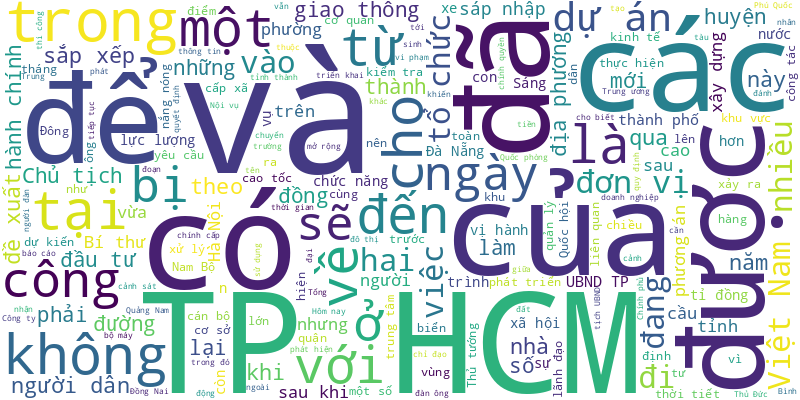
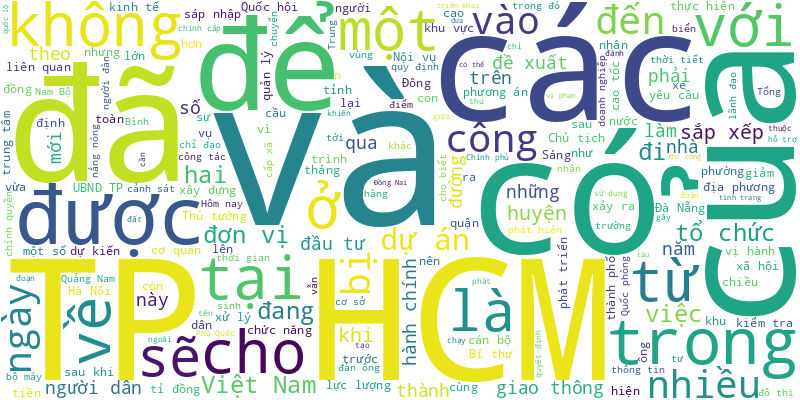
🍀 = 40%

diff --git a/README.md b/README.md
@@ -1,6 +1,17 @@
 # Tuoi Tre RSS 
 
 ## Giáo dục 
+- Hai nhóm học sinh Đắk Lắk giành giải nhì tại Cuộc thi Nghiên cứu khoa học kỹ thuật cấp quốc gia năm học 2024-2025 với hai sáng chế: máy tách vỏ sầu riêng bán tự động và thiết bị theo dõi dinh dưỡng cây cà phê bằng AI.
+- Gloucestershire Vietnam luôn nỗ lực mở rộng và nâng cao chất lượng giáo dục thông qua các chương trình đào tạo quốc tế. Với tinh thần hội nhập và nhu cầu học hỏi của thế hệ Gen Z, Gloucestershire Vietnam đã tạo ra những cơ hội học tập hấp dẫn...
+- Trong thư ngỏ, hiệu trưởng cũng mong phụ huynh hãy đặt hy vọng đúng mực vào con em mình, tránh gây áp lực điểm số mà vô tình tiếp tay cho việc học thêm, dạy thêm sai quy định.
+- UBND TP.HCM đã có văn bản cho phép tuyển sinh lớp 10 chuyên năm học 2025-2026 cao hơn 20% chỉ tiêu ban đầu.
+- Thủ tướng đề nghị các trường đại học của hai bên chủ động trao đổi để có các chương trình hợp tác cụ thể.
+- Một số người nước ngoài chia thành hai luồng ý kiến khác nhau xoay quanh việc có nên giáo dục học sinh bằng hình phạt đòn roi.
+- Ngày 31-3, báo Tuổi Trẻ đã tổ chức giao lưu, chia sẻ và ra mắt sách 'Kỹ năng ứng phó bạo lực học đường' dành cho học sinh tiểu học.
+- Thí sinh đăng ký nguyện vọng xét tuyển, đóng lệ phí và phải xác nhận nhập học trực tuyến khi trúng tuyển.
+- Một phụ huynh dùng điện thoại ghi lại cảnh nhóm nữ sinh tiểu học ở TP Long Xuyên, An Giang ‘phì phèo’ thuốc lá trong sân trường.
+- Bộ Giáo dục và Đào tạo vừa công bố kết quả kỳ thi chọn đội tuyển quốc gia dự thi Olympic quốc tế và khu vực năm 2025.
+- Nhiều câu hỏi 'nóng' về tuyển sinh lớp 10 năm 2025 tại TP.HCM đã được giải đáp tại Ngày hội Tự tin vào lớp 10 diễn ra sáng 30-3.
 - Đó là một trong những nội dung đáng chú ý trong kế hoạch tuyển sinh đầu cấp năm học 2025-2026 vừa được UBND TP.HCM công bố.
 - Buổi giao lưu với các chuyên gia tâm lý, nhà báo về kỹ năng ứng phó bạo lực học đường sẽ diễn ra lúc 7h ngày 31-3 tại Trường tiểu học Trần Hưng Đạo, quận 1, TP.HCM.
 - Ủng hộ quản lý chuyện dạy thêm nhưng nhiều bạn đọc đề nghị cần kiểm soát chặt hơn, tránh giáo viên hoán đổi học sinh ở trung tâm và thu tiền cao.
@@ -993,19 +1004,69 @@ Trường đại học Văn Lang được QS xếp hạng top 51-100 thế giớ
 - Học sinh chưa được hướng nghiệp đầy đủ ở cấp THCS nhưng phải lựa chọn môn học ngay đầu cấp học THPT và chỉ được chọn tổ hợp nhà trường bố trí là bất hợp lý.
 - Hiệp hội các trường đại học, cao đẳng Việt Nam đánh giá hoạt động tuyển sinh vào đại học, cao đẳng ngày càng lộn xộn, kém hiệu quả; tạo ra sự mất bình đẳng về cơ hội được tiếp cận giáo dục đại học đối với các đối tượng bị thiệt thòi trong xã hội.
 - Sinh viên năm nhất ngành quan hệ công chúng đến báo Tuổi Trẻ tìm hiểu, học tập quy trình và cách thức tổ chức sự kiện.
-- Loạt bài "Lạc lối với môn học lựa chọn" vừa đăng trên Tuổi Trẻ đã chạm đến nỗi niềm của phụ huynh đang có con chuẩn bị chuyển cấp học.
-- Sinh viên phản ánh giá gửi xe ở Trường đại học Y khoa Phạm Ngọc Thạch (TP.HCM) còn đắt hơn ở trung tâm thương mại?
-- Nếu cho rằng không có 'phương thức xét tuyển sớm' thì việc bộ đưa ra quy định không xét tuyển sớm quá 20% chỉ tiêu để làm gì?
-- Trường học hạnh phúc muốn có chiều sâu, không dừng lại ở khẩu hiệu thì mỗi thầy cô phải là người anh, người chị, người bạn chân thành của học sinh.
-- Đây là một trong những quy tắc ứng xử văn hóa của học sinh được Trường THCS Trực Thuận, huyện Trực Ninh, Nam Định áp dụng với học sinh toàn trường.
-- Trên sân khấu, các nghệ sĩ diễn trích đoạn 'Anh hùng Trần Bình Trọng', ngồi dưới, học sinh vừa xem vừa ghi chú lại những ấn tượng về nghệ thuật hát bội.
-- UBND huyện Sông Mã (Sơn La) quyết định cho thôi chức vụ hiệu trưởng Trường Phổ thông dân tộc bán trú tiểu học Nậm Ty đối với bà Nguyễn Thị Hà.
-- Nhiều phụ huynh lại thấp thỏm với phương án tuyển sinh lớp 10 năm nay, vì đây là kỳ thi đầu tiên theo chương trình mới và lại có thêm những thay đổi trong phương án thi.
-- Có những phụ huynh dù nhà cách trường không xa nhưng vẫn đi ô tô đưa đón học sinh thay vì đi xe máy để hạn chế kẹt xe.
-- Đội tuyển Hồng Bàng 1 gồm học sinh các trường THPT tại TP.HCM vừa giành giải 3 tại đấu trường STEM Robotics thế giới.
-- Một nhóm học sinh trung học cơ sở tại Mỹ đã tình cờ phát hiện hợp chất mới có khả năng làm chậm sự phát triển của tế bào ung thư hắc tố và ung thư buồng trứng.
 ![Edu](Edu.png)
 ## Thời Sự 
+- 217 hộ dân ảnh hưởng bởi dự án đường Hồ Chí Minh - tuyến tránh Chư Sê đã được cấp kinh phí hỗ trợ sau nhiều năm dài khiếu kiện vì huyện tính thiếu.
+- Nhiều chuyên gia và cán bộ quản lý nhìn nhận số lượng 'khủng' trụ sở các cơ quan, đơn vị hành chính, tổ chức xã hội dôi dư sau sắp xếp sẽ tạo cơ hội để các địa phương bổ sung cơ sở vật chất văn hóa, thể thao, giáo dục cho người dân.
+- Thủ tướng Chính phủ yêu cầu các bộ trưởng, chủ tịch tỉnh cập nhật thông tin những dự án còn vướng mắc, khó khăn để báo cáo cấp thẩm quyền xem xét, giải quyết.
+- Tại dự Luật Cán bộ, công chức, Bộ Nội vụ đã đề xuất thêm một số trường hợp được miễn trách nhiệm đối với cán bộ, công chức.
+- Từ ngày 1-4, mua bán xe online sẽ được công an xác thực qua ứng dụng VNeID, giúp người dân không mất thời gian đi lại.
+- Chiếc xe bồn gặp sự cố dẫn đến mất lái, tông vào bên đường rồi bốc cháy, sáng 1-4. Sự cố làm một người trong cabin tử vong.
+- Theo chỉ thị 19 của Thủ tướng, từ ngày 30-3-2025 các chung cư mini, nhà ở kết hợp kinh doanh, nhà trọ không bảo đảm an toàn phòng cháy chữa cháy sẽ bị buộc phải dừng hoạt động cho đến khi đáp ứng đầy đủ các giải pháp bảo đảm an toàn.
+- Thời gian gần đây khu vực Tây Nguyên rộ lên tình trạng kẻ gian phá hoại những vườn cây trồng chủ lực như cà phê, hồ tiêu, chanh dây, sầu riêng... gây thiệt hại lớn cho người trồng.
+- Trong đó, nhiều chính sách về dự án nhà ở, quy định về quản lý lao động, tiền lương, thù lao, tiền thưởng... được nhiều người quan tâm.
+- Một số tin tức đáng chú ý: Choáng với lượt quan tâm tìm kiếm bất động sản ở Hưng Yên; Một sếp Vinaconex bất ngờ từ nhiệm trước cuộc họp quan trọng; Mỗi tháng Bệnh viện Chợ Rẫy tiếp nhận gần 700 ca kháng thuốc kháng sinh...
+- Bắc Bộ sau nhiều ngày mưa rét hôm nay 1-4, trời đã hửng nắng. Nam Bộ có mưa do ảnh hưởng của rãnh áp thấp tồn tại các nhiễu động xấu.
+- Đoàn tìm kiếm cứu nạn của Bộ Công an Việt Nam vừa tìm thấy thi thể một bé trai 10 tuổi bị vùi dưới đống đổ nát trong ngôi nhà sập ở Myanmar, tối 31-3.
+- Tổng thống Burundi là nguyên thủ quốc gia nước ngoài thứ ba đến Hà Nội trong vòng hai tuần qua, cho thấy sự coi trọng của các nước và vị thế ngày càng cao của Việt Nam.
+- Liên quan vụ ô tô chở 36 du khách đi từ Đà Lạt rơi xuống vực đèo Bảo Lộc (tỉnh Lâm Đồng), tài xế đã bị tạm giữ để phục vụ điều tra.
+- Tại cuộc tiếp Đại sứ Mỹ Marc Knapper, Tổng Bí thư Tô Lâm cho biết Việt Nam đang tích cực giải quyết các quan tâm hiện nay của Mỹ, trên tinh thần khuyến khích gia tăng nhập khẩu các sản phẩm mà nước này có thế mạnh và Việt Nam có nhu cầu.
+- ‘Nổ’ du học nước ngoài về và đang là bác sĩ, Nguyễn Quán Hùng làm quen nhiều cô gái rồi lừa cả tình lẫn tiền của các nạn nhân.
+- Trong 8 năm, cơ quan chức năng phát hiện 110 mỏ khoáng sản, gồm 25 loại khác nhau như đất hiếm, vàng, thiếc-wolfram, đồng.
+- Anh T. chở vợ là chị C. bằng xe máy đi khám bệnh, khi đi đến địa bàn huyện Cái Nước, tỉnh Cà Mau thì va chạm với xe khách. Vụ va chạm làm vợ chồng anh T. tử vong tại chỗ.
+- Cơ quan chức năng nghi ngờ nhà thầu thi công căn nhà 7 tầng tại TP Buôn Ma Thuột (Đắk Lắk) đã đào móng quá sâu và rộng, làm sập căn nhà bên cạnh.
+- Việt Nam không nằm trên vành đai lửa nên không xảy ra động đất mang tính chất hủy diệt, song vẫn có khả năng xảy ra các trận động đất mạnh 6-7 độ (độ lớn M) ở khu vực Tây Bắc, do có nhiều đứt gãy địa chất.
+- Trung tâm Quản lý giao thông công cộng TP.HCM thông báo điều chỉnh lộ trình tuyến xe buýt 99 (chợ Thạnh Mỹ Lợi - Đại học Quốc gia) kết nối vào tuyến metro số 1 (Bến Thành - Suối Tiên).
+- Cháu bé 8 tuổi bị người tình của mẹ đánh, ném xuống sàn nhà gây chấn thương não, nhập viện cấp cứu trong tình trạng hôn mê ở An Giang đã tử vong, gia đình đã đưa thi thể cháu về lo hậu sự.
+- Viện Kiểm sát nhân dân tỉnh Tiền Giang đã phê chuẩn quyết định khởi tố bị can Hồ Vũ Bảo - cựu phó giám đốc Sở Nội vụ, trưởng Ban Thi đua - Khen thưởng trực thuộc Sở Nội vụ tỉnh Tiền Giang - về tội thiếu trách nhiệm gây hậu quả nghiêm trọng.
+- Ông H. có những bình luận trên mạng xã hội Facebook khiếm nhã, phân biệt địa phương, chia rẽ tình cảm giữa nhân dân hai tỉnh Quảng Trị và Quảng Bình.
+- Tỉnh Bạc Liêu thông qua chính sách hỗ trợ lãi vay đầu tư xe buýt và miễn, giảm giá vé cho nhiều đối tượng đi xe buýt để khuyến khích loại hình vận tải công cộng này.
+- Kết thúc thanh tra dự án xây dựng cơ sở 2 Bệnh viện Bạch Mai và Bệnh viện Hữu nghị Việt Đức, Thanh tra Chính phủ phát hiện giá trị lãng phí lên đến hàng ngàn tỉ, chuyển hồ sơ vụ việc có dấu hiệu tội phạm đến Bộ Công an xem xét điều tra, xử lý.
+- Chủ tịch Quốc hội Trần Thanh Mẫn nhấn mạnh, tại kỳ họp thứ 9 sẽ ưu tiên trình Quốc hội xem xét, quyết định các nội dung cấp thiết phục vụ sắp xếp tổ chức bộ máy, tổ chức chính quyền.
+- Căn nhà bốc cháy khiến bé trai tử vong. Khi ngọn lửa bùng phát, cơ quan chức năng cho hay mẹ nạn nhân không có trong nhà.
+- Tổng liên đoàn Lao động Việt Nam sẽ nghiên cứu, đề xuất tăng cường kiểm tra tài chính, kết hợp kiểm toán độc lập tại công đoàn cơ sở ở doanh nghiệp ngoài nhà nước có đông công nhân.
+- Lâm Đồng nằm sâu trong nội địa, Bình Thuận giáp ranh và có 192km bờ biển. Giao thông kết nối hai tỉnh hiện ra sao?
+- Lực lượng cảnh sát giao thông Quảng Nam đã làm việc với chủ xe và 2 người nước ngoài, liên quan đến vụ việc nhóm người buông hai tay khi lái mô tô phân khối lớn trên đường.
+- Bộ Nội vụ đề xuất UBND cấp tỉnh trước sáp nhập lập danh sách, thống nhất dự kiến phương án xử lý trụ sở, tài sản công của cơ quan, tổ chức, đơn vị ở cấp tỉnh thuộc phạm vi quản lý, kèm theo đề án sắp xếp đơn vị cấp tỉnh.
+- Bà Cao Thị Hòa An - phó bí thư thường trực Tỉnh ủy Phú Yên - vừa được Bộ Chính trị chuẩn y là bí thư Tỉnh ủy Phú Yên nhiệm kỳ 2020 - 2025.
+- Thủ tướng đề nghị các trường đại học của hai bên chủ động trao đổi để có các chương trình hợp tác cụ thể.
+- Ông Võ Thanh Hùng, trưởng Ban Nội chính Tỉnh ủy Gia Lai, được tổ chức cho phép nghỉ hưu trước tuổi dù còn 3 năm công tác.
+- Chủ tịch tỉnh Khánh Hòa chỉ đạo các đơn vị liên quan kiểm tra, xử lý vụ người dân "tố" lãnh đạo xã đi dã ngoại xa trong giờ hành chính.
+- Mức phạt dành cho nhóm người chặn đường đánh bóng bàn ở quận Gò Vấp (TP.HCM) còn nhẹ, chưa đủ sức răn đe.
+- Một nam thanh niên ở Nghệ An trúng tuyển nghĩa vụ quân sự nhưng trước lễ giao nhận quân hai ngày lại xuất cảnh sang Hàn Quốc làm việc.
+- UBND TP.HCM vừa ban hành quyết định giao nhiệm vụ chủ đầu tư các dự án metro thực hiện theo nghị quyết 188 của Quốc hội.
+- Sáng 31-3, tàu huấn luyện Suzunami của Lực lượng Tự vệ trên biển Nhật Bản chở theo 230 sĩ quan và thủy thủ đã cập cảng Tiên Sa.
+- Phó tổng tham mưu trưởng Lào trung tướng Vanthong Bouttavong cho biết Việt Nam là nước đầu tiên được quân đội Lào chọn để nghiên cứu xây dựng lực lượng gìn giữ hòa bình Liên hợp quốc.
+- Báo Tuổi Trẻ đã tiếp nhận ủng hộ của nhiều bạn đọc cho người dân Myanmar đang chịu sự mất mát do trận động đất 7,7 độ gây ra.
+- Đường tỉnh 830C nối từ trung tâm huyện Bến Lức (Long An) đến TP.HCM được điều chỉnh tổng mức đầu tư từ 971 tỉ đồng lên 1.851 tỉ đồng.
+- Bất chấp dòng xe cộ đông đúc trên quốc lộ 1, tài xế xe buýt vẫn lái xe chạy ngược chiều, chèn ép xe khác trên đường.
+- Hình ảnh do lực lượng cứu hộ Việt Nam gửi về cho thấy nhiều ngôi nhà tại thủ đô Naypyidaw, Myanmar đã đổ sập, hư hại hoàn toàn.
+- Trưởng Ban Tuyên giáo và Dân vận Trung ương Nguyễn Trọng Nghĩa đề nghị phát huy nguồn lực các tôn giáo cho sự nghiệp phát triển đất nước.
+- Dưới thời tiết nắng gắt của Naypyidaw (Myanmar), đoàn công tác cứu hộ của Việt Nam khẩn trương hỗ trợ tìm kiếm nạn nhân động đất.
+- Xe tải đang chạy lên dốc cầu Chữ Y thì bất ngờ tông vào dải phân cách lật ngang, đầu xe tải va trúng xe máy và ô tô chạy hướng ngược lại.
+- Sự anh dũng chiến đấu, quên mình của nhiều thế hệ cách mạng đã tạo nên huyền thoại, những kỳ tích hào hùng, để lại dấu ấn sâu đậm, trường tồn cùng thời gian.
+- Có tổng cộng 6 bệnh nhân nghi ngộ độc rượu methanol (cồn công nghiệp) được cấp cứu tại Bệnh viện Chợ Rẫy (TP.HCM).
+- Thay đổi mới liên quan đến cấp, đổi thẻ bảo hiểm y tế người dân cần biết vừa được Bảo hiểm xã hội Việt Nam ban hành.
+- UBND tỉnh Lâm Đồng đã phê duyệt dự án đầu tư đường cao tốc Bảo Lộc - Liên Khương nối phía nam Lâm Đồng với Đà Lạt.
+- Tại dự Luật Cán bộ, công chức sửa đổi đang được lấy ý kiến, Bộ Nội vụ đã đề xuất các quy định mới về việc tuyển dụng, thôi việc với công chức.
+- Công an Quảng Trị vừa bắt hai vợ chồng vì hành vi tống tiền một phụ nữ bằng clip sex do chính người chồng quay lại khi quan hệ tình dục với người này.
+- Một ổ mây dông lớn từ biển đang di chuyển dần vào đất liền, chiều nay thời tiết Nam Bộ có mưa dông, nhiều nơi mưa vừa.
+- Xe khách biển số Đà Nẵng chở 24 người đi hành hương bị lật trên đèo Khánh Lê nối Nha Trang với Đà Lạt, khiến 6 người bị thương.
+- Sáng 31-3, Tòa án nhân dân tỉnh Đồng Nai đã mở phiên tòa xét xử sơ thẩm vụ án môi giới hối lộ xảy ra ở trạm cảnh sát giao thông Suối Tre.
+- Để phát triển nhà ở giá rẻ tại các đô thị lớn như Hà Nội và TP.HCM, cần tạo lập quỹ đất và nguồn vốn đủ lớn để xây dựng đồng loạt.
+- Tắm hồ bơi ở phường Thới An (quận 12, TP.HCM), người đàn ông chới với rồi nổi trên mặt nước, mọi người đưa ông lên bờ nhưng ông đã qua đời.
+- Công an đang tạm giữ Hồ Trần Minh Có (30 tuổi, huyện Châu Phú, tỉnh An Giang), làm rõ hành vi đánh đập bé 8 tuổi con của người tình.
+- Sáng 31-3, một vụ cháy lớn xảy ra tại khu nhà xưởng phế liệu. Cột khói đen bốc lên cao có thể nhìn thấy từ khoảng cách xa nhiều kilomet.
 - Ban quản lý dự án 85 trình Bộ Xây dựng chủ trương đầu tư hoàn thiện ống hầm thứ 2 xuyên Núi Vung trên cao tốc Bắc - Nam.
 - Rạng sáng 31-3, Nhà vua Bỉ Philippe và Hoàng hậu Mathilde đã đến Hà Nội, bắt đầu chuyến thăm cấp nhà nước Việt Nam từ ngày 31-3 đến ngày 4-4.
 - Để đáp ứng nhu cầu vốn, IPO (phát hành cổ phiếu lần đầu ra công chúng) là lựa chọn của nhiều doanh nghiệp. Nhưng ngay cả Tesla của Elon Musk hay "ông lớn" Amazon nếu khởi nghiệp ở Việt Nam cũng khó có cơ hội niêm yết, kêu gọi vốn.
@@ -1945,67 +2006,6 @@ Trường đại học Văn Lang được QS xếp hạng top 51-100 thế giớ
 - Một cô gái dự Lễ hội ánh sáng Buôn Ma Thuột tối nay bị ngất xỉu giữa đám đông hàng chục ngàn người, rất may được người thân, công an giải cứu kịp thời.
 - Ngày 12-3, Tổng Bí thư Tô Lâm đã có cuộc gặp các lãnh đạo và nguyên lãnh đạo cấp cao Singapore.
 - Hàng chục ngàn bạn trẻ phấn khích và bùng nổ với 'tiệc' ánh sáng và màn vẽ tượng đài Buôn Ma Thuột lên bầu trời của 500 chiếc drone.
-- UBND TP.HCM yêu cầu các sở ngành nắm tình hình về nguồn cung thịt heo, chuẩn bị các phương án nếu giá thịt heo tiếp tục biến động, không để thiếu hàng gây tăng giá bất hợp lý.
-- Một người tiếp tục hít xà đơn trên chuyến tàu metro số 1, dù trước đó đã có trường hợp tương tự bị phản ánh. Đơn vị vận hành khẳng định đây là hành động phản cảm, gây mất an toàn cho hành khách…
-- Ủy ban Thường vụ Quốc hội đã ban hành các nghị quyết phê chuẩn nhân sự HĐND của các tỉnh Hà Nam, Vĩnh Long, Cà Mau và TP Đà Nẵng.
-- Sau khi chơi ma túy, nam thanh niên bị ảo giác nghe có người nói ‘ra đây’, nên cầm dao xông ra đường đâm chết một người đang dừng xe.
-- Cùng với đề xuất mở rộng cán bộ hưởng chính sách tinh gọn bộ máy, Bộ Nội vụ đề nghị chính sách hỗ trợ thêm của địa phương tối đa là 30% mức của trung ương.
-- Phó thủ tướng Lê Thành Long yêu cầu lãnh đạo các tỉnh thành, Bộ Xây dựng không để xảy ra tiêu cực, tham nhũng trong công tác giải phóng mặt bằng thực hiện các dự án cao tốc.
-- Vườn nho trên sân thượng rộng khoảng 200m2 được anh Trần Trung Trực (ở huyện Bình Chánh, TP.HCM) dày công chăm sóc, nay đang vào mùa sai trĩu quả.
-- Đến làm việc với tỉnh Khánh Hòa chiều nay 12-3, Phó thủ tướng Hồ Đức Phớc đã kiểm tra một số vị trí 'đất vàng' tại Nha Trang có xảy ra sai phạm để nắm bắt thực tế.
-- Phó thủ tướng thường trực Nguyễn Hòa Bình yêu cầu tháo gỡ vướng mắc, đến tháng 9 phải hoàn thành 4 cao tốc Hòa Liên - Túy Loan, Quảng Ngãi - Hoài Nhơn, Hoài Nhơn - Quy Nhơn và Quy Nhơn - Chí Thạnh.
-- Thủ tướng Phạm Minh Chính vừa ký quyết định số 571 về việc thành lập Ban Chỉ đạo thực hiện sắp xếp, tổ chức lại đơn vị hành chính các cấp và xây dựng mô hình tổ chức chính quyền địa phương hai cấp.
-- Từ nay đến cuối tháng 3, Đồng bằng sông Cửu Long còn đối mặt với hai đợt xâm nhập mặn. Từ tháng 4, xâm nhập mặn giảm dần.
-- Một con đường lún sâu như những luống khoai, tiềm ẩn nguy cơ tai nạn giao thông ở thành phố Vinh, Nghệ An.
-- Ngày 12-3, UBND TP.HCM có thông báo về việc treo cờ Tổ quốc và nghỉ lễ giỗ Tổ Hùng Vương năm 2025 đến cơ quan hành chính, sự nghiệp, tổ chức chính trị, tổ chức chính trị - xã hội.
-- Dự án Khu công nghiệp VSIP Nghệ An 3, với số vốn đầu tư hơn 1.300 tỉ đồng, được kỳ vọng sẽ tạo ra một cú đột phá lớn cho phát triển công nghiệp của tỉnh Nghệ An.
-- Dự kiến từ ngày 28-3, tàu cao tốc sẽ chính thức đón khách từ bến cảng Sài Gòn đi Côn Đảo mỗi ngày 1 chuyến.
-- Hai doanh nghiệp làm cà phê tại Đắk Lắk đã đưa hàng ngàn gói cà phê "nguồn gốc không phá rừng" xuất khẩu sang Mỹ, nâng cao vị thế cà phê Việt.
-- Liên hiệp các tổ chức hữu nghị tỉnh Cà Mau cùng đơn vị tài trợ là Tổ chức Cứu trợ trẻ em Nhật Bản khởi động dự án nghiên cứu đánh giá tính khả thi để thiết kế đề xuất dự án tín chỉ carbon xanh tại tỉnh Cà Mau từ năm 2024-2025.
-- Trong khuôn khổ chuyến thăm cấp Nhà nước Indonesia của Tổng Bí thư Tô Lâm, Phu nhân Ngô Phương Ly đã đến thăm và tặng quà các em nhỏ bị ung thư tại Tổ chức Chăm sóc trẻ em ung thư Indonesia.
-- Vệt biển đẹp tại thành phố Hội An đang chứng kiến tình trạng xâm thực dữ dội mấy ngày qua. Người dân và các cơ sở kinh doanh du lịch tìm mọi cách giữ bờ nhưng không mấy hiệu quả.
-- Khi sáp nhập tỉnh thành, sáp nhập xã, người dân có phải đổi các giấy tờ như căn cước, sổ đỏ mới hay không?
-- Ông Nguyễn Văn Phúc đề xuất nên nghiên cứu sáp nhập đơn vị cấp tỉnh theo quy hoạch 6 vùng kinh tế xã hội của đất nước đã được phê duyệt.
-- Chủ tịch Hà Nội Trần Sỹ Thanh yêu cầu các đơn vị phải thực hiện theo đúng chỉ đạo của Chính phủ về việc triển khai kết luận của Tổng Bí thư tại buổi làm việc với Ban Chính sách, chiến lược Trung ương.
-- Trưa 12-3, Tổng Bí thư Tô Lâm và Thủ tướng Singapore Lawrence Wong cùng thông báo với báo chí quyết định nâng cấp quan hệ Việt Nam - Singapore lên Đối tác chiến lược toàn diện.
-- Chủ tịch Quốc hội Trần Thanh Mẫn và Phó thủ tướng thường trực Nguyễn Hòa Bình dự lễ động thổ xây dựng Khu công nghiệp VSIP 2 Quảng Ngãi.
-- Chủ đầu tư vừa cảnh cáo các nhà thầu thi công, tư vấn giám sát gói XL04 cao tốc Vĩnh Hảo - Phan Thiết do không nghiêm túc hoàn thiện công trình và hồ sơ quyết toán.
-- Hai ngày liên tiếp (từ ngày 11 đến 12-3), Ban quản lý Khu bảo tồn loài - sinh cảnh Phú Mỹ (huyện Giang Thành, Kiên Giang) ghi nhận có tổng cộng 13 con sếu đầu đỏ về kiếm ăn ở khu vực vùng đệm khu bảo tồn này.
-- Sau khi trực tiếp khảo sát dự án vành đai 3, Chủ tịch UBND TP.HCM Nguyễn Văn Được yêu cầu TP Thủ Đức rà soát đầy đủ thủ tục đền bù, giải phóng mặt bằng để đảm bảo đúng tiến độ cam kết.
-- Theo dự báo của Đài khí tượng thủy văn tỉnh Tiền Giang, triều cường rằm tháng 2 âm lịch sẽ là đợt triều cao trong năm 2025, gây ngập tại các vùng trũng, ven sông, kênh rạch, dự báo xâm nhập mặn sẽ lấn sâu vào nội đồng.
-- Người dân phản ánh UBND huyện Diên Khánh (Khánh Hòa) đã áp dụng quyết định liên quan đến bảng giá đã hết hiệu lực để bồi thường, hỗ trợ khi có tài sản bị ảnh hưởng để thực hiện dự án.
-- Ô tô đang chạy trên đường Đỗ Mười, phường Linh Trung, TP Thủ Đức (TP.HCM) thì bất ngờ cháy ngùn ngụt. Lực lượng chức năng nhanh chóng đến dập lửa nhưng xe đã bị thiêu rụi.
-- Sáng 12-3, tại Nhà Quốc hội Singapore, Thủ tướng nước này Lawrence Wong đã chủ trì lễ đón chính thức Tổng Bí thư Tô Lâm.
-- TP.HCM có 12 quận, huyện đã áp dụng chuyển đổi số trong quản lý chất thải rắn sinh hoạt, bước đầu hoàn thành số hóa dữ liệu, nỗ lực trở thành đô thị thông minh.
-- Sáng 12-3, đoàn công tác do chủ tịch UBND TP.HCM dẫn đầu đã khảo sát dự án nút giao An Phú - công trình trọng điểm của TP.HCM ở cửa ngõ phía đông.
-- Ủy ban Mặt trận Tổ quốc Việt Nam TP.HCM tổ chức lấy ý kiến danh sách 50 cá nhân tiêu biểu từ năm 1975 đến nay. Bên cạnh những tên tuổi lớn, TP.HCM cũng đề xuất tôn vinh những tấm gương thầm lặng, có đóng góp tích cực trong đời sống xã hội.
-- Thủ tướng Singapore Lawrence Wong đón Tổng Bí thư Tô Lâm và Phu nhân tại Vườn thực vật Singapore, sau đó cùng chứng kiến lễ đặt tên cho một loài hoa lan mới.
-- Thật ngạc nhiên khi 160km ranh giới giữa Đồng Nai và Bình Phước hiện chỉ có một tuyến đường cắt qua. Tuy nhiên con đường này lại không có cầu bắc qua, giao thông hai tỉnh vì thế bị chia cắt.
-- 717 công chức, viên chức, người lao động thuộc Bộ Nông nghiệp và Môi trường có đơn xin nghỉ, 283 trường hợp khác có nguyện vọng xin nghỉ công tác nếu có kinh phí.
-- Hai nam sinh lớp 9 ở Hà Tĩnh di chuyển bằng xe máy trên tuyến đường mòn Hồ Chí Minh bất ngờ va chạm với xe đầu kéo, cả hai nạn nhân tử vong tại chỗ.
-- Ngày 11-3, Văn phòng UBND TP Hà Nội ban hành thông báo về kết luận của ông Dương Đức Tuấn, phó chủ tịch UBND TP, tại cuộc họp triển khai các nhiệm vụ về quy hoạch, cải tạo không gian khu vực phía đông hồ Hoàn Kiếm (hồ Gươm).
-- Một số tin tức đáng chú ý: Kinh tế vĩ mô Việt Nam khởi sắc; Đề xuất các nguyên tắc bảo vệ dữ liệu cá nhân; Cổ phiếu 'đại gia' xăng dầu miền Tây chỉ còn hơn 1.000 đồng; Cát Bà sẽ hút du khách quốc tế nhờ Hollywood...
-- Hôm nay 12-3, thời tiết Bắc Bộ mưa ẩm, Nam Bộ ngày nắng nóng nhưng chiều tối lại có mưa dông.
-- Đến thời điểm hiện tại, Việt Nam chỉ còn 5 tỉ phú USD khi ông Trần Bá Dương rời danh sách. Trong khi đó, quy mô tài sản ròng của ông Phạm Nhật Vượng tăng đột biến chỉ trong ít ngày.
-- Ông Nguyễn Thanh Nghị, phó bí thư thường trực Thành ủy TP.HCM, khẳng định thành phố đi đầu trong hợp tác với Cuba và sẽ dốc sức để giúp Cuba vượt qua khó khăn.
-- Thông báo lựa chọn nhà thầu của giám đốc Trung tâm Bảo trợ xã hội tỉnh Bà Rịa - Vũng Tàu được chính vị này ký thu hồi. Lý do là thông báo được ký sau khi trung tâm này đã hợp nhất.
-- Ông Takebe Tsutomu, cố vấn đặc biệt Liên minh Nghị sĩ hữu nghị Việt - Nhật, tin rằng việc tăng cường giao lưu nhân dân không chỉ là nền tảng thúc đẩy hợp tác đầu tư - thương mại mà còn giúp thế hệ trẻ rèn luyện tinh thần tự lực, tự cường.
-- Công ty cổ phần Quốc tế Hoàng Gia (RIC) - chủ casino Royal Hạ Long (Quảng Ninh) - vừa công bố báo cáo tài chính đã kiểm toán năm 2023. Báo cáo minh bạch khoản thu nhập mà lãnh đạo doanh nghiệp này 'bỏ túi'.
-- Đến 19h ngày 11-3, lực lượng chức năng vẫn đang giải quyết vụ tai nạn giao thông trên đường Trần Văn Giàu (xã Phạm Văn Hai, huyện Bình Chánh, TP.HCM) giữa xe container và xe máy khiến một người tử vong.
-- Mạng xã hội lan truyền clip cảnh sát giao thông (CSGT) có lời nói thiếu chuẩn mực, Phòng CSGT Công an TP.HCM giải thích đây là hai cán bộ làm chung đơn vị, trao đổi công việc nên dùng từ thiếu chuẩn mực với nhau, chứ không phải nói với người vi phạm.
-- Ngày 11-3, Ban Thường vụ Tỉnh ủy Thanh Hóa đã có quyết định điều động, bổ nhiệm ông Trần Văn Thức - giám đốc Sở Giáo dục và Đào tạo - giữ chức vụ phó trưởng Ban Tuyên giáo và Dân vận Tỉnh ủy Thanh Hóa.
-- Phương án sau khi sắp xếp sẽ giảm khoảng 50% số đơn vị hành chính cấp tỉnh, và giảm 60 - 70% đơn vị hành chính cấp cơ sở so với hiện nay.
-- Hiện nay, các vấn đề thực hiện dự án vành đai 3 cơ bản thuận lợi, khó khăn còn lại là thiếu cát. TP.HCM kiến nghị Thủ tướng chỉ đạo các địa phương tháo gỡ nhanh các thủ tục, nâng công suất khai thác các mỏ cát.
-- Với các cơ chế đặc biệt của nghị quyết 188, TP.HCM đặt mục tiêu hoàn thành 355km metro trong 10 năm.
-- Bộ Y tế vừa tổ chức lễ công bố quyết định của bộ trưởng Bộ Y tế về việc bổ nhiệm giám đốc Bệnh viện Mắt trung ương đối với PGS.TS Phạm Ngọc Đông, thời hạn giữ chức vụ là 5 năm.
-- Công an tỉnh Lâm Đồng đang điều tra vụ chủ khu du lịch Đường hầm điêu khắc tố cáo cán bộ Cục Thuế tỉnh Lâm Đồng giả mạo biên bản.
-- Hội thảo 'Cuộc đời và sự nghiệp cách mạng của đồng chí Nguyễn Thị Định' diễn ra vào ngày 15-3, theo hình thức trực tiếp tại tỉnh Bến Tre kết hợp trực tuyến, kết nối đến điểm cầu Học viện Chính trị quốc gia Hồ Chí Minh.
-- Tỉnh Quảng Nam yêu cầu tạm dừng tổ chức mua sắm tập trung ô tô phục vụ công tác chung trên địa bàn tỉnh.
-- Nên chăng mở rộng phạm vi TOD từ Hàng Xanh đến cầu Bình Triệu, kéo dài thêm chiều ngang tới bờ sông Sài Gòn, kênh Thanh Đa?
-- Theo chủ tịch UBND TP.HCM, nhà nước, doanh nghiệp và nhà khoa học sẽ phải 'cộng sinh' mới tạo được đột phá.
-- Ngay sau khi xảy ra sự việc bé trai 16 tháng tuổi bị ô tô tông ngay trước cơ sở giữ trẻ, lực lượng chức năng yêu cầu cơ sở này tạm đóng cửa.
-- Bộ Xây dựng đề nghị Bình Phước sớm làm việc với Đồng Nai để thống nhất phương án mở rộng đường tỉnh 753 kết nối đường qua cầu Mã Đà.
-- Người phụ nữ ở Vĩnh Long tố cáo cháu mình chiếm đoạt 2 tờ vé số trúng giải 30 triệu đồng/tờ sau khi nhờ dò số giùm.
 ![New](News.png)
 ## Nhịp sống số 
 - Văn phòng An ninh quốc gia của tổng thống Hàn Quốc vừa thành lập một nhóm tư vấn nhằm điều phối các biện pháp ứng phó trước những mối đe dọa an ninh do trí tuệ nhân tạo (AI) gây ra.
